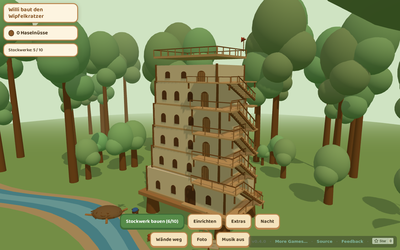
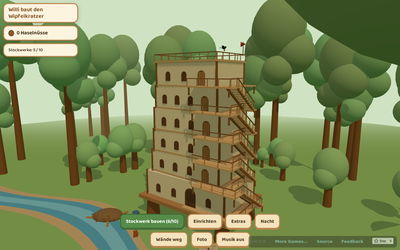
chore(hub): refresh Wipfelkratzer screenshots for v0.5.0
Wipfelkratzer v0.5.0 makes toasts persist until dismissed (its #10), so the
recipe's five "Stockwerk bauen" clicks left five stacked messages covering the
tower — the first capture was a wall of notifications with the game behind it.
The recipe now clears them via "Alle schliessen", which the game shows from the
second toast onwards.

Claude-Session: https://claude.ai/code/session_0144J7pg3aztVX7FtFEQgRYk

diff --git a/scripts/capture_screenshots.py b/scripts/capture_screenshots.py
@@ -105,6 +105,10 @@ ACTIONS = {
         ("select", "#btn-build"), ("wait", 1200),
         ("select", "#btn-build"), ("wait", 1200),
         ("select", "#btn-build"), ("wait", 1800),
+        # Since v0.5.0 toasts stay up until dismissed (game-wipfelkratzer#10), so
+        # five builds leave five stacked messages covering the tower. "Alle
+        # schliessen" appears from the second toast onwards and clears them.
+        ("select", "#toast-clear-all"), ("wait", 500),
     ],
     "game-huusli-jagd": [
         # Menu defaults (Zürich, solo vs 3 CPUs) are fine; start so the shot shows
